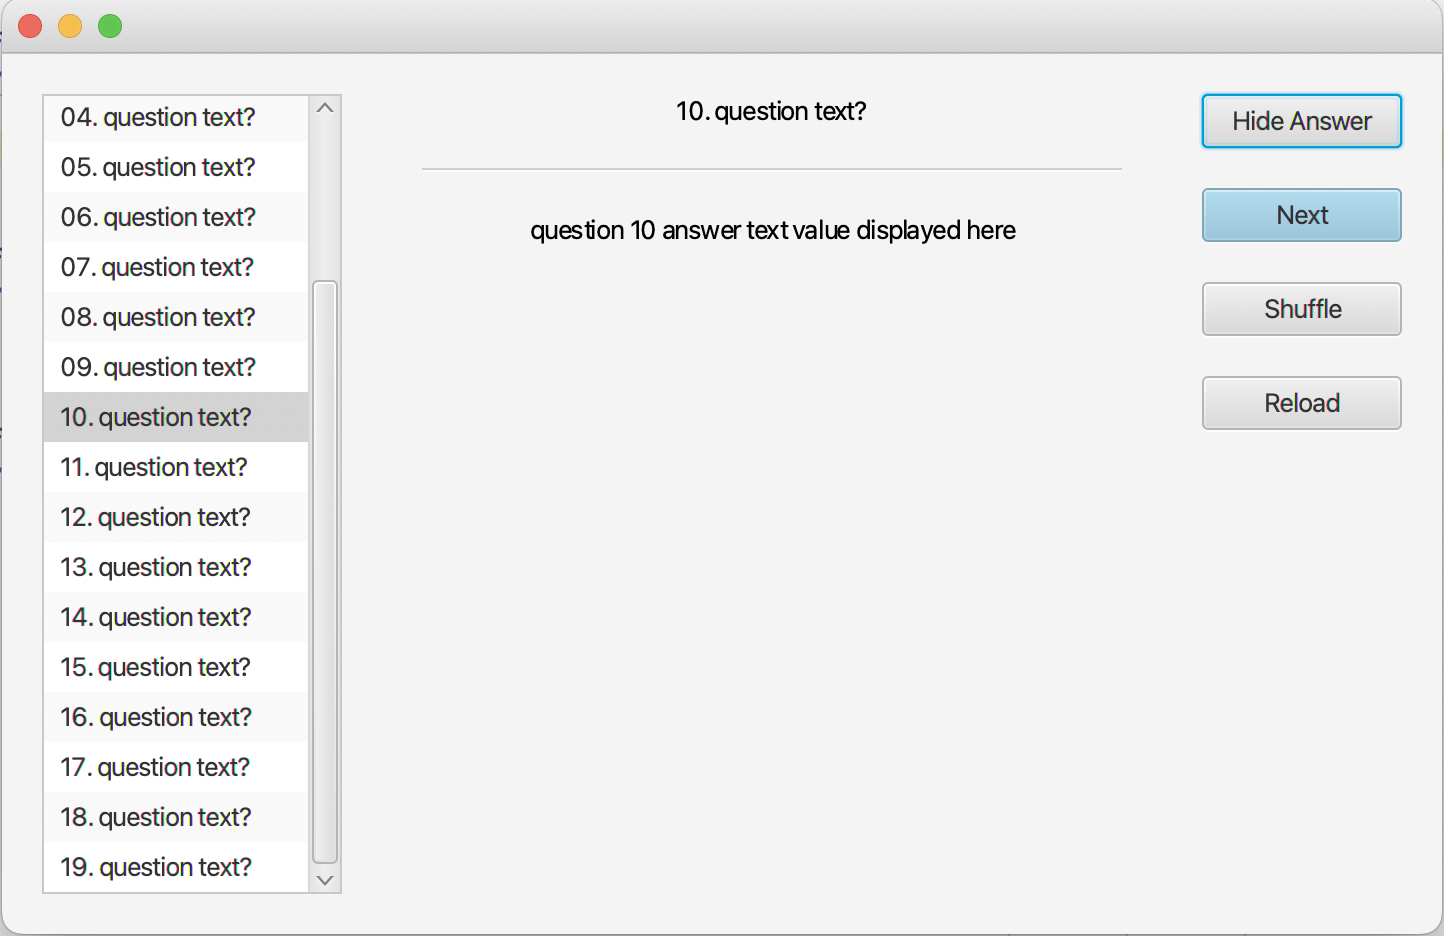
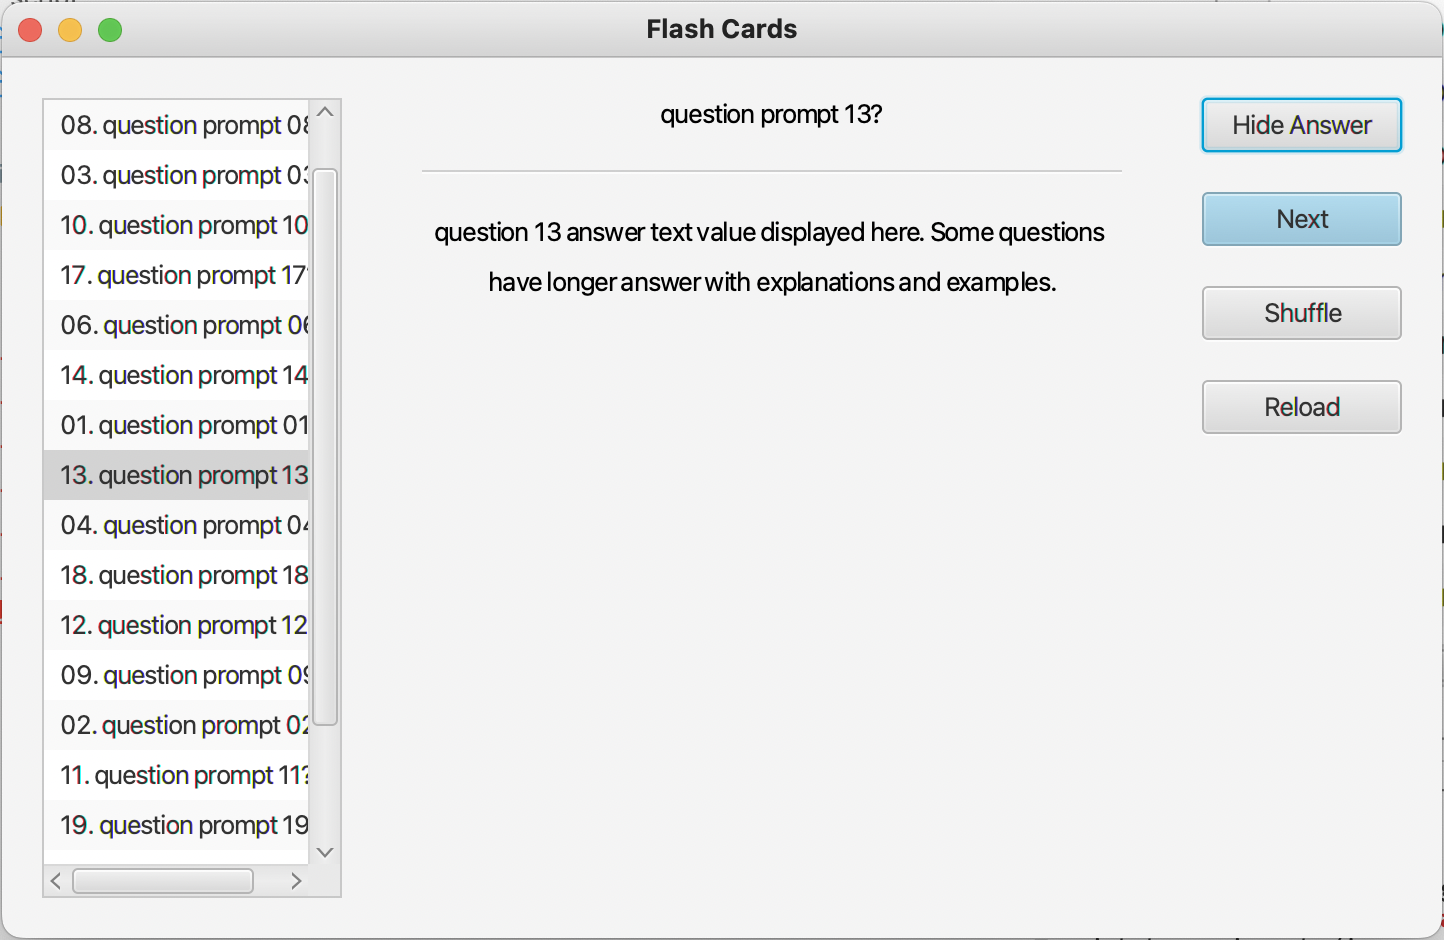
wip: custom answer toggle button element

diff --git a/src/org/ogunsola/sheridan/java2/MainController.java b/src/org/ogunsola/sheridan/java2/MainController.java
@@ -8,7 +8,6 @@ import javafx.beans.value.ObservableValue;
 import javafx.collections.FXCollections;
 import javafx.collections.ObservableList;
 import javafx.fxml.FXML;
-import javafx.scene.control.Button;
 import javafx.scene.text.Text;
 import org.ogunsola.sheridan.java2.QuestionsDAO.Question;
 
@@ -19,7 +18,6 @@ public class MainController {
   private final ObservableList<Question> questions;
   private final QuestionsDAO questionsDAO;
   private ChangeListener<Question> questionChangeListener;
-  private boolean showAnswer = false;
 
   @FXML
   private QuestionListView questionListView;
@@ -31,7 +29,7 @@ public class MainController {
   private Text answerText;
 
   @FXML
-  private Button answerToggle;
+  private AnswerSwitch answerSwitch;
 
   public MainController() {
     this(new QuestionsDAO());
@@ -55,7 +53,7 @@ public class MainController {
           final Question oldValue,
           final Question newValue
         ) {
-          MainController.this.setShowAnswer(false);
+          MainController.this.answerSwitch.setOn(false);
         }
       };
   }
@@ -73,6 +71,7 @@ public class MainController {
     }
   }
 
+  @FXML
   private void updateDisplayState() {
     this.questionListView.getSelectedQuestion()
       .ifPresent(
@@ -81,13 +80,7 @@ public class MainController {
           this.answerText.setText(question.answer);
         }
       );
-    this.answerText.setVisible(this.showAnswer);
-    this.answerToggle.setText((this.showAnswer ? "Hide" : "Show") + " Answer");
-  }
-
-  private void setShowAnswer(final boolean showAnswer) {
-    this.showAnswer = showAnswer;
-    this.updateDisplayState();
+    this.answerText.setVisible(this.answerSwitch.isOn());
   }
 
   @FXML
@@ -105,11 +98,5 @@ public class MainController {
   @FXML
   private void nextQuestion() {
     this.questionListView.selectNextQuestion();
-  }
-
-
-  @FXML
-  private void toggleAnswer() {
-    this.setShowAnswer(!this.showAnswer);
   }
 }

diff --git a/src/App.java b/src/App.java
@@ -1,28 +1,28 @@
-
 import java.io.IOException;
-
-import org.ogunsola.sheridan.java2.SceneLayout;
-
 import javafx.application.Application;
 import javafx.scene.Scene;
 import javafx.stage.Stage;
+import org.ogunsola.sheridan.java2.SceneLayout;
 
 public class App extends Application {
-    public static SceneLayout DEFAULT_SCENE_LAYOUT = SceneLayout.MAIN;
-    private static Scene scene;
 
-    public static void main(final String[] args) throws Exception {
-        launch(args);
-    }
+  public static SceneLayout DEFAULT_SCENE_LAYOUT = SceneLayout.MAIN;
+  private static Scene scene;
+  private static final String APP_TITLE = "Flash Cards";
 
-    @Override
-    public void start(final Stage primaryStage) throws Exception {
-        final Scene scene = new Scene(DEFAULT_SCENE_LAYOUT.loadFXML());
-        primaryStage.setScene(scene);
-        primaryStage.show();
-    }
+  public static void main(final String[] args) throws Exception {
+    launch(args);
+  }
 
-    static void setLayout(SceneLayout layout) throws IOException {
-        scene.setRoot(layout.loadFXML());
-    }
+  @Override
+  public void start(final Stage primaryStage) throws Exception {
+    final Scene scene = new Scene(DEFAULT_SCENE_LAYOUT.loadFXML());
+    primaryStage.setTitle(APP_TITLE);
+    primaryStage.setScene(scene);
+    primaryStage.show();
+  }
+
+  static void setLayout(SceneLayout layout) throws IOException {
+    scene.setRoot(layout.loadFXML());
+  }
 }

diff --git a/src/org/ogunsola/sheridan/java2/AnswerSwitch.java b/src/org/ogunsola/sheridan/java2/AnswerSwitch.java
@@ -1,0 +1,30 @@
+package org.ogunsola.sheridan.java2;
+
+import javafx.scene.control.Button;
+
+public class AnswerSwitch extends Button {
+
+  public static String TEXT_ON = "Hide Answer";
+  public static String TEXT_OFF = "Show Answer";
+
+  private boolean on = false;
+
+  public boolean isOn() {
+    return on;
+  }
+
+  public void setOn(boolean on) {
+    this.on = on;
+    this.setText(this.on ? TEXT_ON : TEXT_OFF);
+    super.fire();
+  }
+
+  public void toggle() {
+    this.setOn(!this.isOn());
+  }
+
+  @Override
+  public void fire() {
+    this.toggle();
+  }
+}

diff --git a/src/org/ogunsola/sheridan/java2/QuestionListView.java b/src/org/ogunsola/sheridan/java2/QuestionListView.java
@@ -1,9 +1,7 @@
 package org.ogunsola.sheridan.java2;
 
-import javafx.scene.control.ListView;
-
 import java.util.Optional;
-
+import javafx.scene.control.ListView;
 import org.ogunsola.sheridan.java2.QuestionsDAO.Question;
 
 public class QuestionListView extends ListView<Question> {
